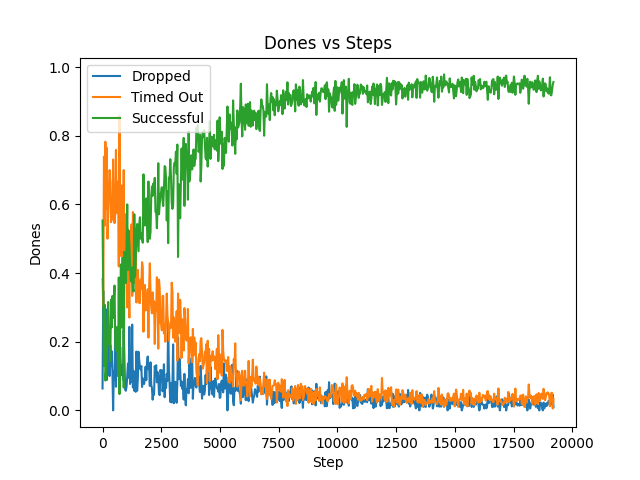
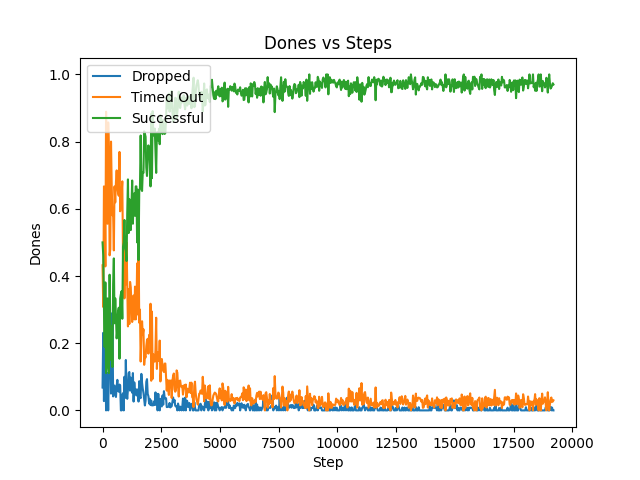
Adding object orientation

diff --git a/source/gr1_train/gr1_train/tasks/direct/gr1_train/gr1_train_env.py b/source/gr1_train/gr1_train/tasks/direct/gr1_train/gr1_train_env.py
@@ -15,6 +15,7 @@ from isaaclab.utils.math import sample_uniform
 from isaaclab_assets.robots.fourier import GR1T2_HIGH_PD_CFG  # isort: skip
 
 from .gr1_train_env_cfg import Gr1TrainEnvCfg
+from isaaclab.sensors import ContactSensor
 
 import numpy as np
 import matplotlib.pyplot as plt
@@ -35,7 +36,9 @@ class Gr1TrainEnv(DirectRLEnv):
             # "rew_stopping_bonus": [],
             # "rew_obj_velocity": []
             "rew_time": [],
-            "rew_palm_facing": []
+            "rew_pinky": [],
+            "rew_palm_facing": [],
+            "rew_object_orientation": []
         }
 
         self.dones = {
@@ -97,6 +100,9 @@ class Gr1TrainEnv(DirectRLEnv):
         # rew_stopping_bonus = np.array(self.rewards["rew_stopping_bonus"])
         # rew_obj_vel = np.array(self.rewards["rew_obj_velocity"])
         rew_palm_facing = np.array(self.rewards["rew_palm_facing"])
+        rew_pinky = np.array(self.rewards["rew_pinky"])
+        rew_object_orientation = np.array(self.rewards["rew_object_orientation"])
+
 
         x_coords = np.arange(len(self.rewards["total_reward"]))
 
@@ -107,6 +113,8 @@ class Gr1TrainEnv(DirectRLEnv):
         plt.plot(x_coords,rew_success, label="Left Bonus")
         plt.plot(x_coords,rew_time,label="Time")
         plt.plot(x_coords,rew_palm_facing,label="Palm Facing")
+        plt.plot(x_coords,rew_pinky,label="Pinky")
+        plt.plot(x_coords,rew_object_orientation,label="Obj Ori")
 
         plt.plot(x_coords,total_reward, label="Total")
 
@@ -117,7 +125,7 @@ class Gr1TrainEnv(DirectRLEnv):
         plt.savefig("rewards.png")
         plt.clf()
 
-        rewards = [(total_reward, "Total Reward"), (rew_left_dist, "Left Distance Reward"), (rew_success, "Success Reward"), (rew_time, "Time Reward"), (rew_falling_penalty, "Falling Penalty"), (rew_palm_facing, "Palm Facing")]
+        rewards = [(total_reward, "Total Reward"), (rew_left_dist, "Left Distance Reward"), (rew_success, "Success Reward"), (rew_time, "Time Reward"), (rew_falling_penalty, "Falling Penalty"), (rew_palm_facing, "Palm Facing"), (rew_pinky, "Pinky"), (rew_object_orientation, "Obj Ori")]
         for reward_tuple in rewards:
             reward_values, label = reward_tuple
             plt.plot(x_coords,reward_values)
@@ -219,6 +227,9 @@ class Gr1TrainEnv(DirectRLEnv):
         #  articulation and block
         self.robot = Articulation(cfg=self.cfg.scene.robot)
         self.block = RigidObject(cfg=self.cfg.scene.block)
+        self.force_hand = ContactSensor(self.cfg.scene.contact_forces_left_hand)
+        self.force_finger = ContactSensor(self.cfg.scene.contact_forces_left_hand)
+
         
         # spawn ground
         spawn_ground_plane(prim_path="/World/Ground", cfg=GroundPlaneCfg())
@@ -233,6 +244,9 @@ class Gr1TrainEnv(DirectRLEnv):
         # add object and robot to scene
         self.scene.articulations["robot"] = self.robot
         self.scene.rigid_objects["block"] = self.block
+        self.scene.sensors["contact_forces_left_hand"] = self.force_hand
+        self.scene.sensors["contact_forces_left_finger"] = self.force_finger
+
 
     def _pre_physics_step(self, actions: torch.Tensor) -> None:
         self.actions = actions.clone()
@@ -246,13 +260,15 @@ class Gr1TrainEnv(DirectRLEnv):
         # left_dist = torch.linalg.norm(left_hand_pos - obj_pos, dim=-1)
         # normalise distance to be between 0 and 1
         left_finger_dist = torch.linalg.norm(link_data[:, 44] - obj_pos, dim=-1)
-        normalised_distance = torch.tanh(left_finger_dist / 0.5)
+        normalised_distance = torch.tanh(left_finger_dist / 0.5) * 2
         # print(f"Normalised distance: max={torch.max(normalised_distance).item()} min={torch.min(normalised_distance).item()}")
         # When it gets closer, max action value decreases
         # "left_shoulder_pitch_joint", "left_shoulder_roll_joint", "left_shoulder_yaw_joint", "left_elbow_pitch_joint" but wrist not slowed
-        scaled_actions = normalised_actions[:,:4] * (normalised_distance.unsqueeze(1))
+        scaled_actions = normalised_actions * (normalised_distance.unsqueeze(1))
+
+        noise_actions = scaled_actions + torch.randn_like(self.actions) * 0.05
         # For exploration and to simulate motor errors 
-        noise_actions = torch.cat((scaled_actions, normalised_actions[:, 4:]), dim=-1) + torch.randn_like(self.actions) * 0.05 
+        # noise_actions = torch.cat((scaled_actions, normalised_actions[:, 4:]), dim=-1) + torch.randn_like(self.actions) * 0.05 
         self.robot.set_joint_position_target(noise_actions, joint_ids=self._controlled_joint_ids.tolist())
 
     def _get_observations(self) -> dict:
@@ -267,16 +283,27 @@ class Gr1TrainEnv(DirectRLEnv):
         hand_pose_w[:, :2] -= self.scene.env_origins[:, :2]
 
         # object world position and quaternion
-        obj_pos = self.block.data.root_pos_w  # (num_envs, 3)
-        obj_pos += torch.randn_like(obj_pos) * 0.05
+        obj_pose = self.block.data.root_pose_w  # (num_envs, 3)
+        obj_pose += torch.randn_like(obj_pose) * 0.05
 
-        obs = torch.cat((joint_pos, joint_vel, obj_pos, hand_pose_w), dim=-1)
+        obs = torch.cat((joint_pos, joint_vel, obj_pose, hand_pose_w), dim=-1)
         return {"policy": obs}
 
     def _get_rewards(self) -> torch.Tensor:
         # Distance of the hand to the bowl
         obj_pos = self.block.data.root_pos_w # refers to the root position in the world frame
         obj_z = obj_pos[:, 2] # 1.0166 when it is on the table
+        obj_quat = self.block.data.root_quat_w
+        x = obj_quat[:, 1]
+        y = obj_quat[:, 2]
+        z = obj_quat[:, 3]
+        w = obj_quat[:, 0]
+        t2 = 2.0 * (w * y - z * x)
+        # Clamp t2 to handle potential floating-point inaccuracies
+        t2 = torch.clamp(t2, min=-1.0, max=1.0)
+        pitch = torch.abs(torch.arcsin(t2))
+        
+        rew_object_orientation = self.cfg.reward_object_orientation * (pitch >= 0.5).to(dtype=torch.float32)
 
         # Hand joints
         # left: name="left_hand_roll_link", index=29
@@ -294,7 +321,7 @@ class Gr1TrainEnv(DirectRLEnv):
         palm_vector_a = left_ring_pos - left_wrist_pos
         palm_vector_b = left_middle_pos - left_wrist_pos
         palm_normal = torch.nn.functional.normalize(torch.cross(palm_vector_a, palm_vector_b), dim=-1)
-        palm_pos = (left_middle_pos + left_wrist_pos) / 2
+        palm_pos = (left_middle_pos * 0.7 + left_wrist_pos * 0.3)
 
         obj_hand = obj_pos - palm_pos
         obj_hand = torch.nn.functional.normalize(obj_hand, dim=1)
@@ -308,10 +335,12 @@ class Gr1TrainEnv(DirectRLEnv):
         # Palm facing block
         rew_success = self.cfg.reward_scale_success * (left_dist <= 0.15).to(dtype=torch.float32) * (dot > 0.5).to(dtype=torch.float32)
 
+        rew_pinky = self.cfg.reward_scale_contact_left_pinky * (torch.linalg.norm(self.force_hand.data.net_forces_w, dim=-1).squeeze(-1) + torch.linalg.norm(self.force_finger.data.net_forces_w, dim=-1).squeeze(-1))
+
         rew_falling_penalty = self.cfg.reward_scale_falling_penalty * (obj_z < 0.8).to(dtype=torch.float32)
         rew_time = self.cfg.reward_scale_time * self.episode_length_buf
 
-        total_reward = rew_left_dist + rew_success + rew_time + rew_falling_penalty + rew_palm_facing
+        total_reward = rew_left_dist + rew_success + rew_time + rew_falling_penalty + rew_palm_facing + rew_object_orientation
 
         self.rewards["total_reward"].append(torch.mean(total_reward).item())
         self.rewards["rew_left_dist"].append(torch.mean(rew_left_dist).item())
@@ -319,6 +348,8 @@ class Gr1TrainEnv(DirectRLEnv):
         self.rewards["rew_falling_penalty"].append(torch.mean(rew_falling_penalty).item())
         self.rewards["rew_time"].append(torch.mean(rew_time).item())
         self.rewards["rew_palm_facing"].append(torch.mean(rew_palm_facing).item())
+        self.rewards["rew_pinky"].append(torch.mean(rew_pinky).item())
+        self.rewards["rew_object_orientation"].append(torch.mean(rew_object_orientation).item())
         return total_reward
 
     def _get_dones(self) -> tuple[torch.Tensor, torch.Tensor]:
@@ -339,7 +370,7 @@ class Gr1TrainEnv(DirectRLEnv):
         left_wrist_pos = link_data[:, 29]
         left_middle_pos = link_data[:, 34]
         left_ring_pos = link_data[:, 36]
-        palm_pos = (left_middle_pos + left_wrist_pos) / 2
+        palm_pos = (left_middle_pos * 0.7 + left_wrist_pos * 0.3)
         # euclidean distance to object
         left_dist = torch.linalg.norm(palm_pos - obj_pos, dim=-1) # distance between hand and bowl
 

diff --git a/source/gr1_train/gr1_train/tasks/direct/gr1_train/gr1_train_env_cfg.py b/source/gr1_train/gr1_train/tasks/direct/gr1_train/gr1_train_env_cfg.py
@@ -15,10 +15,11 @@ import isaaclab.sim as sim_utils
 from isaaclab.utils import configclass
 from isaaclab.utils.assets import ISAAC_NUCLEUS_DIR, ISAACLAB_NUCLEUS_DIR
 from isaaclab_assets.robots.fourier import GR1T2_HIGH_PD_CFG
+from isaaclab.sensors import ContactSensorCfg
 
 @configclass
 class ObjectTableSceneCfg(InteractiveSceneCfg):
-    packing_table = AssetBaseCfg(
+    packing_table = AssetBaseCfg( # Height: 0.9941
         prim_path="/World/envs/env_.*/PackingTable",
         init_state=AssetBaseCfg.InitialStateCfg(pos=[0.0, 0.55, 0.0], rot=[1.0, 0.0, 0.0, 0.0]),
         spawn=UsdFileCfg(
@@ -87,6 +88,23 @@ class ObjectTableSceneCfg(InteractiveSceneCfg):
         ),
     )
 
+    
+
+    contact_forces_left_hand = ContactSensorCfg(
+        prim_path="/World/envs/env_.*/Robot/left_hand_pitch_link",
+        update_period=0.0,
+        history_length=6,
+        debug_vis=True
+    )
+
+    contact_forces_left_finger = ContactSensorCfg(
+        prim_path="/World/envs/env_.*/Robot/L_pinky_intermediate_link",
+        update_period=0.0,
+        history_length=6,
+        debug_vis=True
+    )
+
+
     ground = AssetBaseCfg(
         prim_path="/World/GroundPlane",
         spawn=GroundPlaneCfg(),
@@ -107,10 +125,10 @@ class Gr1TrainEnvCfg(DirectRLEnvCfg):
 
     action_space: int = 7
     # observation: joint positions (7), joint velocities (7) (left and right)
-    # object position (3)
+    # object position (3) orientation (4)
     # Left hand roll link pose (7)
     # waist joints: pos (3) vel (3)
-    observation_space: int = 14 + 3 + 7
+    observation_space: int = 14 + 7 + 7
     state_space: int = 0
 
     max_action = 0.5
@@ -125,6 +143,8 @@ class Gr1TrainEnvCfg(DirectRLEnvCfg):
     # reward_scale_left_vel: float = -0.01
     # reward_scale_obj_vel: float = -0.7
     reward_scale_falling_penalty: float = -1000.0
+    reward_scale_contact_left_pinky: float = -1.0
+    reward_object_orientation: float = -10.0
 
     reward_scale_time: float = -0.3
     # reward_scale_velocity: float = 0.5
